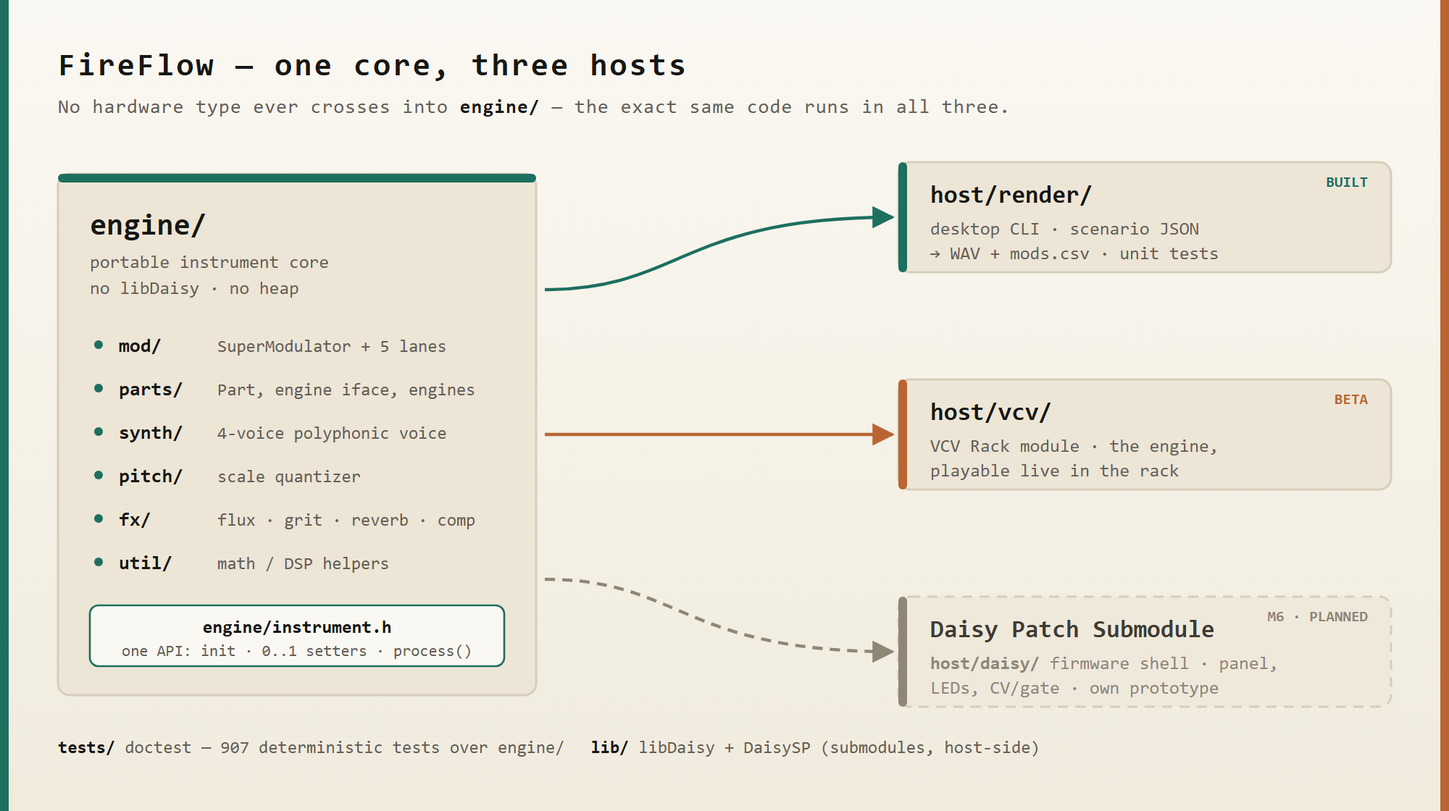
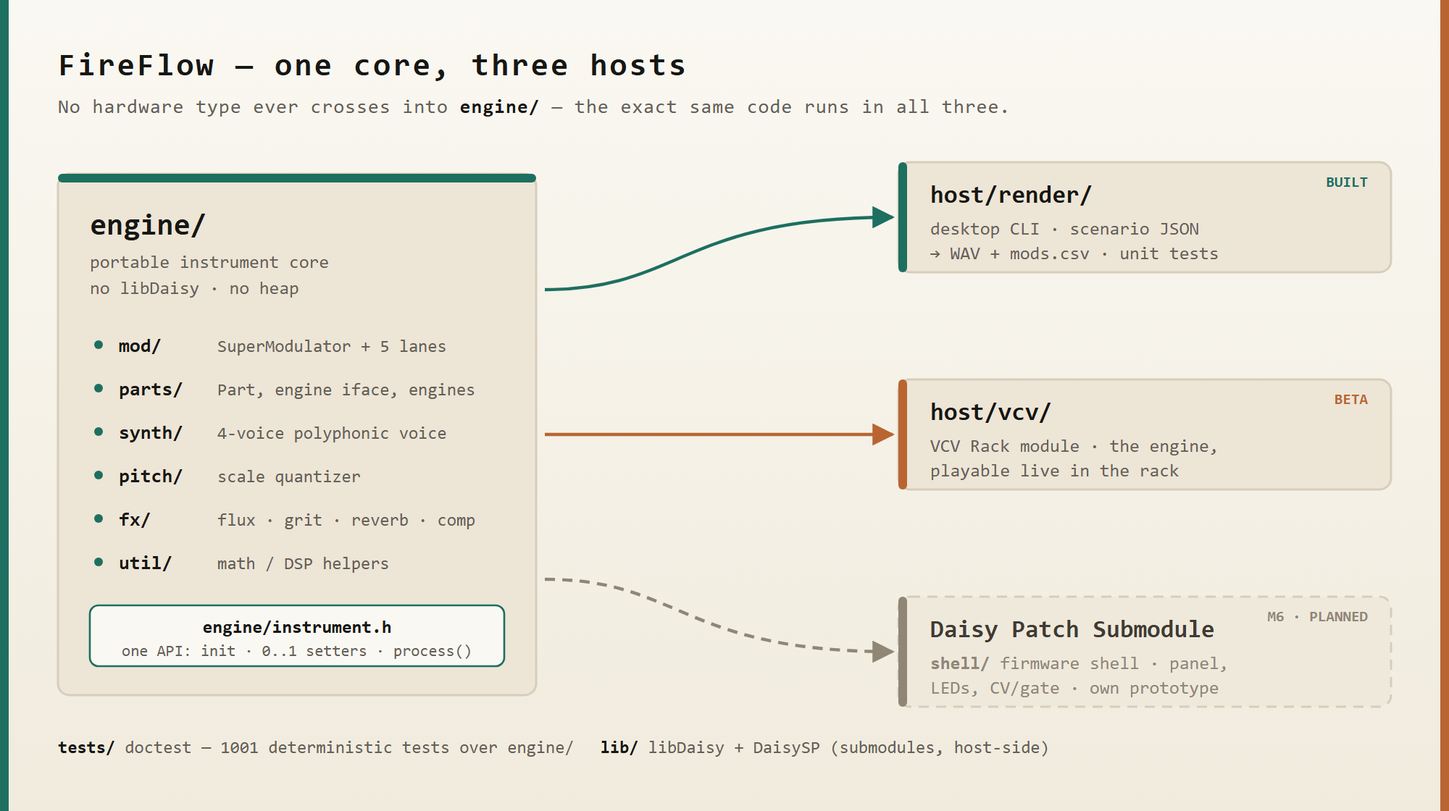
docs: the status files catch up with four shipped rounds
The roadmap was last written on 15 Aug against the SMOOTH merge and had
fallen behind by two panel rounds, one engine round, and every release
tag since 2.18.0. Nothing here changes code.

Corrected, each checked against git rather than against the previous
text: the captions round landed 2026-08-03 and shipped in 2.18.0, the
regrouping round in 2.21.1, and PACE, the FLOW melody engine, the
flow/Glow removal, melody-reachable and SMOOTH all in 2.21.2 -- five
rows and two paragraphs still said "not yet merged" or "not yet
released".

Added: the melody-reachable round, which had no entry at all (one guard,
one of six lane states, FORM_B moving 9 of 13 STEP terrains against 1 of
13), the SMOOTH and 60 HP plate rows, and the two panel rounds that
followed the regrouping -- redistribution and plate design 2a, with the
three Rack findings that only rendering the module could produce.

Opened as its own entry: the pitch RANGE law. The melody-reachable plan
excluded spec 2.2 on purpose and nothing recorded that anywhere, so the
one open thread in the engine was invisible. It carries the measured
defect (ambitus peaks at RANGE 0.5 and falls, 54.2 % of samples clamped
at 1.00) and the caveat that its numbers came through engine/flow/,
deleted a day later.

The envelope spec's "82 params on 80 positions" is now marked as the
2026-08-08 count: gen_hw_panel.py prints params=69 inputs=12 outputs=6
lights=4 today, and the printed line is what to quote.
[…]

Changed region(s): [[0.155, 0.9062, 0.713, 0.9375], [0.651, 0.8125, 0.868, 0.8438]]

diff --git a/docs/roadmap.md b/docs/roadmap.md
@@ -30,7 +30,27 @@ is actually built today, and what is still design-only.
   (`docs/superpowers/specs/2026-07-25-spotykach-form-song-split-design.md`).
   (These specs keep their original filenames, written while the project was
   still a Spotykach fork.)
-- **Last updated:** 2026-08-15 (**SMOOTH becomes interval-relative**: the
+- **Last updated:** 2026-08-15 (**the 60 HP plate is drawn**: the
+  redistribution round's layout reached the generator in 2.21.2, and the plate
+  was then redrawn twice — first an organic light plate with wells, then design
+  round 2a, "Technical Blueprint": a dark anodised plate in three tinted zones,
+  an airflow/ember silhouette printed underneath, and every function group
+  inside a framed field with a numbered legend. **No control moved in round
+  2a** — it is colour, texture, frames and lettering, and the geometry guards
+  are untouched. Three fixes followed the same day: group frames hug their own
+  ink with equal air above and below and exactly 3 mm between rows, every
+  caption keeps one distance to its own body (3.6 mm, read off the small pots —
+  51 of the 69 params) instead of one per size class, and the MOTION/VOICE/
+  TIMING band runs on three knob lines instead of the five it had drifted onto.
+  Three findings are about **Rack** rather than about the drawing, and each was
+  found by rendering the module rather than by reading the file: NanoSVG drops
+  `<mask>`, so the silhouette fade is baked as a gradient overlay; with
+  `objectBoundingBox` gradients Rack painted one deck's overlay opaque, so every
+  gradient is in millimetres now; and Rack's 8.03 mm `PJ301M` body buries
+  lettering that a real 6.2 mm jack clears, which is now its own guard. Released
+  as **2.21.2** and **2.21.3**; the plate is a design study and still says
+  `DRAFT` — see "M6 — Hardware prototype" under "Planned"); before
+  that, 2026-08-15 (**SMOOTH becomes interval-relative**: the
   slew law is now `τ = smooth · TOP · interval` instead of absolute
   wall-clock seconds, `kSmoothTopTexture = 0.5` was chosen by ear, the
   factory SMOOTH defaults are converted to preserve the shipped sound, and
@@ -40,7 +60,7 @@ is actually built today, and what is still design-only.
   Spec `docs/superpowers/specs/2026-08-13-shape-smooth-rework-design.md`,
   plan `docs/superpowers/plans/2026-08-14-smooth-interval-relative.md`,
   branch `2026-08-14-smooth-interval-relative`, **merged to `main`
-  2026-08-15** (`4493d67`), not yet released — see "SMOOTH becomes
+  2026-08-15** (`4493d67`) and **released in 2.21.2** — see "SMOOTH becomes
   interval-relative" under "Done"); before
   that, 2026-08-14 (**the flow layer and Glow are struck**:
   `engine/flow/`, the `Glow` VCV module, its faceplate, five render
@@ -62,6 +82,15 @@ is actually built today, and what is still design-only.
   removal took are still gone.** Spec
   `docs/superpowers/specs/2026-08-14-flow-glow-removal-design.md`, plan
   `docs/superpowers/plans/2026-08-14-flow-glow-removal.md`); before that,
+  2026-08-14 (**the melody becomes reachable**: a note deck's melodic lane
+  emits its composed phrase in STEP as it already did in FLOW, so FORM and
+  SONG are audible at every SHAPE position instead of only above 0.75. One
+  guard moves, from `_flow_melody_on()` to `_melodic && _flow_melody`, and
+  exactly one of the six reachable lane states changes with it; in rendered
+  audio FORM_B moves 9 of 13 STEP terrains against 1 of 13 before.
+  **§2.2 of its spec, the pitch RANGE law, was deliberately not built** and is
+  still unspecified — see "The melody becomes reachable" under "Done" and the
+  open thread under "Planned"); before that,
   2026-08-13 (SHAPE/SMOOTH rework: its spec is written —
   `docs/superpowers/specs/2026-08-13-shape-smooth-rework-design.md` — after two
   merged-axis drafts were rejected by review; the third repairs the four measured
@@ -390,9 +419,12 @@ is actually built today, and what is still design-only.
 | **BBD part engine** | `ENGINE_BBD` (ENG state 4) is a fifth, voiceless part engine — no synth voices, just a stereo `BbdEcho` pair fed by audio-in and/or the neighbour (via a new audio-rate cross-deck bus), driven through the five modulation lanes (SOURCE→DRIVE, PITCH→clock, SIZE→division, MOTION→FEEDBACK, LEVEL→dry/wet MIX). The same work reverts FLUX — the echo effect on every engine, including this one — from its BBD model back to a plain tape echo, so the "FLUX → BBD" row above no longer describes FLUX's current mechanism; the bucket-brigade device that survives is this engine, on the BBD deck only | ✅ **done** (engine + VCV; spec `docs/superpowers/specs/2026-07-31-bbd-part-engine-design.md`; released in 2.17.0; measured on real hardware at the engine's own worst case, `inst_bbd_engine_worst` 94.16 avg / 98.39–98.56 max % of the 960 000-cycle block at `-O2` — fits, but no `-O3` measurement of this row exists; see below — **superseded 2026-08-04: the `-O3` measurement now exists.** On the `regress` profile, layout `axi`, `-O3`, this row reads **92.91 % `pct_max`** on the constructed `19f7560` baseline and **96.91 %** on `main` (+4.00 against a 0.19 repeat band). Evidence: [signal-path regression](bench/2026-08-04-2101349-signal-path-regression.md)) |
 | **BBD PITCH / tape TIME surface** | `STAGES_A/B` leaves the FX box and takes over the shared VOICE `ATK` slot as the BBD deck's own pitch control, visible only while that deck is BBD (`ATTACK` is hidden there and stays reachable as a `Freeze Attack` context-menu slider); the vacated FX slot gets a new knob driving `FXT_FLUX_TIME` geometrically from ×0.25 through ×1 to ×4, distinct from RATE's tempo-synced division | ✅ **done** (VCV; spec `docs/superpowers/specs/2026-08-02-vcv-bbd-pitch-flux-time-surface-design.md`; released in 2.17.1; the two new captions, `PITCH` and `TIME`, were renamed `BEND` and `MULT` by "VCV engine-aware captions" below) |
 | **BBD dynamic-stage declick** | `BbdLine` keeps one continuous full-ring write history behind every stage-count change and crossfades the old and new read taps over a fixed 16-tick smoothstep, removing the index-reset impulse the previous immediate resize produced when COLOR/MOTION modulates a line's stage count | ✅ **done** (engine; spec `docs/superpowers/specs/2026-08-03-bbd-dynamic-stages-declick-design.md`; released in 2.17.1; fixed-stage output stays bit-identical, COLOR = 0 stays bit-identical left/right) |
-| **VCV engine-aware captions** | Every state-dependent panel caption now comes from one `DYNAMIC_CAPTIONS` generator table instead of hand-written special cases: BODY gets honest VOICE words (`HIT`/`DAMP`/`CHAR`/`EXCIT`/`BRITE`) and BBD gets its own (`TAIL`/`TILT`/`FEED`/`LOSS`); the FX-box word collisions are resolved by renaming FLUX `RATE`→`DIV`, FLUX `TIME`→`MULT`, per-deck `ROOM`→`SEND`, `MASTER_DRIVE`→`PUSH` and BBD `PITCH`→`BEND` (collision with the orbit's `PITCH` eyebrow); the GRIT mode pad now shows its own state, `SAT`/`CRSH`, instead of the word `GRIT` it collided with; MELODY drives Sampler `SCAN` only, no longer also `set_variation`; the permanently-printed `SCAN`/`LEN` second words are deleted from the static plate | ✅ **done** (VCV host + generator; spec `docs/superpowers/specs/2026-08-03-vcv-engine-aware-captions-design.md`; branch `vcv-engine-aware-captions`, not yet merged to main or released) |
-| **PACE** | One global modulation time-stretch, ×1/32 … ×1 … ×4: a new `Instrument::set_pace()` normalized knob, `pace_mult()` curve (`engine/mod/divisions.h`), a `Transport` pace anchor so the grid re-locks on a change instead of jumping phase, `Flux::set_rhythm_pace`, a `PACE` knob on `Fireflow` beside `TEMPO`, and render-host coverage. Fixes the two controls that looked like a speed knob and were not: TEMPO is inert in the free world, and TIDE never reached the melodic lane | ✅ **done** (engine + VCV host + render host; spec `docs/superpowers/specs/2026-08-12-modulation-pace-design.md`, plan `docs/superpowers/plans/2026-08-12-modulation-pace.md`; branch `2026-08-12-modulation-pace`, not yet merged to `main` or released) |
-| **FLOW melody engine** | The free mode's melodic lane walks an 8-slot phrase instead of running a continuous LFO — DENSITY, FORM and SONG all reach it for the first time, bounded by two rate floors and a slew clamp; SAMPLER and BBD keep the old continuous LFO unchanged | ✅ **done** (engine; spec `docs/superpowers/specs/2026-08-13-flow-melody-engine-design.md`, plan `docs/superpowers/plans/2026-08-13-flow-melody-engine.md`; branch `flow-melody-engine`, not yet merged to `main` or released; **owner's listening checks answered 2026-08-13 — all three renders accepted** — see "FLOW melody engine" under "Done") |
+| **VCV engine-aware captions** | Every state-dependent panel caption now comes from one `DYNAMIC_CAPTIONS` generator table instead of hand-written special cases: BODY gets honest VOICE words (`HIT`/`DAMP`/`CHAR`/`EXCIT`/`BRITE`) and BBD gets its own (`TAIL`/`TILT`/`FEED`/`LOSS`); the FX-box word collisions are resolved by renaming FLUX `RATE`→`DIV`, FLUX `TIME`→`MULT`, per-deck `ROOM`→`SEND`, `MASTER_DRIVE`→`PUSH` and BBD `PITCH`→`BEND` (collision with the orbit's `PITCH` eyebrow); the GRIT mode pad now shows its own state, `SAT`/`CRSH`, instead of the word `GRIT` it collided with; MELODY drives Sampler `SCAN` only, no longer also `set_variation`; the permanently-printed `SCAN`/`LEN` second words are deleted from the static plate | ✅ **done** (VCV host + generator; spec `docs/superpowers/specs/2026-08-03-vcv-engine-aware-captions-design.md`; landed on `main` 2026-08-03 (`0c03e3c`), released in 2.18.0) |
+| **PACE** | One global modulation time-stretch, ×1/32 … ×1 … ×4: a new `Instrument::set_pace()` normalized knob, `pace_mult()` curve (`engine/mod/divisions.h`), a `Transport` pace anchor so the grid re-locks on a change instead of jumping phase, `Flux::set_rhythm_pace`, a `PACE` knob on `Fireflow` beside `TEMPO`, and render-host coverage. Fixes the two controls that looked like a speed knob and were not: TEMPO is inert in the free world, and TIDE never reached the melodic lane | ✅ **done** (engine + VCV host + render host; spec `docs/superpowers/specs/2026-08-12-modulation-pace-design.md`, plan `docs/superpowers/plans/2026-08-12-modulation-pace.md`; branch `2026-08-12-modulation-pace`, fast-forwarded onto `main` 2026-08-13 (tip `338e6eb`, so there is no merge commit to cite), released in 2.21.2) |
+| **FLOW melody engine** | The free mode's melodic lane walks an 8-slot phrase instead of running a continuous LFO — DENSITY, FORM and SONG all reach it for the first time, bounded by two rate floors and a slew clamp; SAMPLER and BBD keep the old continuous LFO unchanged | ✅ **done** (engine; spec `docs/superpowers/specs/2026-08-13-flow-melody-engine-design.md`, plan `docs/superpowers/plans/2026-08-13-flow-melody-engine.md`; branch `flow-melody-engine`, merged to `main` 2026-08-13 (`ad3bb93`), released in 2.21.2; **owner's listening checks answered 2026-08-13 — all three renders accepted** — see "FLOW melody engine" under "Done") |
+| **Melody reachable in STEP** | A note deck's melodic lane emits its composed phrase in STEP exactly as it already did in FLOW: one guard in `ModLane::_compute_raw()` changes from `_flow_melody_on()` to `_melodic && _flow_melody` (an engine-class flag, so SAMPLER and BBD are excluded in both modes). FORM and SONG become audible at every SHAPE position instead of only above 0.75 — measured, FORM_B moves rendered audio on 9 of 13 STEP terrains against 1 of 13 under the old guard. Exactly one of the six reachable lane states changes | ✅ **done** (engine; spec `docs/superpowers/specs/2026-08-14-melody-reachable-design.md` §2.1, plan `docs/superpowers/plans/2026-08-14-melody-reachable.md`; landed on `main` 2026-08-14 (`07d5b9d`), released in 2.21.2. **§2.2, the pitch RANGE law, is not built** — see "The melody becomes reachable" under "Done") |
+| **SMOOTH becomes interval-relative** | The slew law is `τ = smooth · TOP · interval` instead of absolute wall-clock seconds, so SMOOTH means the same thing at every rate; `kSmoothTopTexture = 0.5` chosen by ear, factory defaults converted to preserve the shipped sound, five gates behind it. SHAPE is deliberately not delivered and goes to the Marbles round | ✅ **done** (engine + VCV defaults; spec `docs/superpowers/specs/2026-08-13-shape-smooth-rework-design.md`, plan `docs/superpowers/plans/2026-08-14-smooth-interval-relative.md`; merged to `main` 2026-08-15 (`4493d67`), released in 2.21.2) |
+| **60 HP plate** | The hardware panel gets its layout and then its drawing: the redistribution round's placement reaches `gen_hw_panel.py` (2.21.2), and design round 2a, "Technical Blueprint", replaces the organic light plate with a dark anodised one in three tinted zones, a printed airflow/ember silhouette and framed fields with numbered legends — no control moved for it. Three fixes follow: frames hug their own ink with 3 mm between rows, one caption distance (3.6 mm) for every control instead of one per size class, and three knob lines through the MOTION/VOICE/TIMING band instead of five | ✅ **done** as a design study (VCV `FireflowHW` panel + generator; spec `docs/superpowers/specs/2026-08-10-hw-panel-redistribution-design.md`; released in 2.21.2 and 2.21.3; still labelled `DRAFT`, and no hardware is ordered — see "M6 — Hardware prototype" under "Planned") |
 | **M5k** | ZAP — monophonic percussion part engine | ⬜ **planned** (spec ready; not implemented) |
 | **M5l** | PULL — chord gravity between the two decks | ⬜ **planned** (spec ready; not implemented) |
 | **M6** | Hardware prototype — Daisy Patch Submodule bring-up: panel, controls, LEDs, CV/gate I/O, preset persistence | ⬜ planned (**panel design done — regrouping round built on branch `hw-panel-regroup` 2026-08-10; bring-up not started**; the existing shell spec is superseded — see below) |
@@ -2363,6 +2395,58 @@ carries that transient for the rest of the divergence window. Neither
 hash-gated render (`ctrl_identity`, `wave_formant_sweep`) is affected — both
 stay on one engine for their whole run and never call `set_engine`.
 
+### The melody becomes reachable ✅
+
+A note deck in STEP emitted a waveform where it should have emitted its
+composed phrase. FORM and SONG therefore only became audible above SHAPE 0.75,
+where the S&H zone starts: below it FORM differed on **0 of 4** Principles,
+and it now differs on **3 of 4** at every SHAPE and on every seed tried.
+
+**One guard.** `ModLane::_compute_raw()` gated the phrase path on
+`_flow_melody_on()`, which is mode-dependent; it now gates on
+`_melodic && _flow_melody`. `_flow_melody` is an engine-class flag pushed from
+the engine id in **both** modes (`part.cpp`: `!= ENGINE_SAMPLER &&
+!= ENGINE_BBD`), so it really reads "this deck has a note engine" and excludes
+SAMPLER and BBD everywhere. **Exactly one of the six reachable lane states
+changes**, measured: melodic + STEP + note engine goes from p2p 2.000 over 5
+values to the phrase (0.246 over 7 at seed 12345); the SAMPLER/BBD row beside
+it stays at 2.000 over 5.
+
+**In rendered audio**, over masters 1..59 through `test_param_impact`'s rig:
+FORM_B moves audio on **9 of 13** STEP terrains against **1 of 13** under the
+old guard, FORM_A on **7 of 13** against **0 of 13**. Several of those sit far
+below SHAPE 0.75 — master 11 at SHAPE_B 0.325, 19 at 0.483, 31 at 0.468 — and
+read exactly 0.0 before. FLOW is unchanged under both guards, as expected: it
+was already on the phrase path.
+
+**One misattribution was caught and corrected in the branch** (`0009a9a`): the
+guard does **not** protect `kBbdFlowRangeMax`. That cap is FLOW-only
+(`flow.cpp`, `== ENGINE_BBD && !_mode_now`), and STEP is the one mode where the
+two candidate guards differ, so the cap never runs where the choice matters —
+measured over 400 masters, 0 of 28 BBD decks drawn in FLOW carry RANGE above
+the cap and 35 of 35 drawn in STEP do, up to 0.7266 against a cap of 0.0083.
+What carries the guard alone is the owner's ruling of 2026-08-07: a BBD deck's
+PITCH lane is the delay clock, not a note.
+
+**The spec's §2.2 — the pitch RANGE law — was deliberately not built.** The
+plan says so in its own header: §2.2 is unspecified in the spec and needs a
+design pass first. It is the one open thread this round leaves behind.
+
+The plan also deviates from the spec on purpose and says why: the spec asked
+for `_flow_melody` to be **renamed** `_note_engine` in the same commit, which
+enumerates to ~90 sites across `engine/`, `host/` and 14 test files and would
+have buried a one-line behaviour change in its own diff. A named predicate at
+the point of use went in instead.
+
+Spec `docs/superpowers/specs/2026-08-14-melody-reachable-design.md`, plan
+`docs/superpowers/plans/2026-08-14-melody-reachable.md`; landed on `main`
+2026-08-14 (`07d5b9d`), released in 2.21.2. Two gates were re-baselined because
+the change genuinely reaches them — `tests/test_engine_map.cpp` §1 (the two STEP
+rows are no longer sample-identical; the identity now holds between the note
+deck's STEP and FLOW streams instead, max deviation 0.0 over ten seeds at 8
+steps) and `tests/test_param_impact.cpp` (FORM_A leaves the mode-exclusive
+list).
+
 ### SMOOTH becomes interval-relative ✅
 
 SMOOTH's law used to be `τ = 0.00002 · 25000^smooth` — absolute wall-clock
@@ -2438,7 +2522,7 @@ the old one marked superseded.
 Spec: `docs/superpowers/specs/2026-08-13-shape-smooth-rework-design.md`, plan
 `docs/superpowers/plans/2026-08-14-smooth-interval-relative.md`. Built on
 branch `2026-08-14-smooth-interval-relative`, **merged to `main` on 2026-08-15
-(`4493d67`, twelve commits) and not yet released.** One render hash,
+(`4493d67`, twelve commits) and released in 2.21.2.** One render hash,
 `wave_formant_sweep`, moved under the new law
 (`set_smooth` 0.65); Bastian heard both renders and accepted the new one on
 2026-08-15, and it was re-cut then. `ctrl_identity` is untouched
@@ -2461,8 +2545,9 @@ ALT→NEU change sat 4.1 dB below, for scale).
 
 The SHAPE/SMOOTH rework's SMOOTH half has shipped — see "SMOOTH becomes
 interval-relative" under "Done". Its SHAPE half was handed to the round below
-rather than delivered, per spec §5, so **the Marbles round is now the only
-entry left under "Planned" before M5k.**
+rather than delivered, per spec §5, so **the Marbles round is the only designed
+round left before M5k**, followed by one loose thread that has no round of its
+own yet (the pitch RANGE law, below it).
 
 ### Marbles round — VARY as the character axis ⬜ (unscheduled)
 
@@ -2503,6 +2588,36 @@ argument for taking the SHAPE/SMOOTH rework first.
 
 Needs a spec.
 
+### Open thread — the pitch RANGE law ⬜ (unscheduled, no round yet)
+
+Left behind by the melody-reachable round, whose plan excluded it on purpose:
+spec §2.2 is stated but not designed, and it needs a design pass before anyone
+builds it.
+
+`apply_range` (`engine/mod/range.h`) is an **amplitude** law — unipolar below
+r = 0.5, scaled by `2r`. On the quantized pitch axis that produces two measured
+defects: too little ambitus at the bottom of the knob, and clipping over the
+whole top half. Measured through the real path at STEP 8, SHAPE 1.0, TUNE 0.5,
+mean of 6 seeds, the ambitus **peaks at RANGE ≈ 0.5 (7.23 semitones) and falls
+for the entire upper half** — 29.2 % of samples clamped at RANGE 0.75 and
+54.2 % at 1.00, because `pitch_pre_quant`'s `clampf(…, 0, 1)` starts discarding
+samples at r ≈ 0.55. The clip's position moves with TUNE, since
+`part.cpp` adds `(_tune − 0.5)` before clamping. An earlier draft blamed a
+unipolar/bipolar seam at r = 0.5; **that seam does not exist** — `apply_range`
+is provably continuous there, and the mechanism was mislabelled while the
+residue was real.
+
+Two things constrain whoever picks it up:
+
+- **The gate must be the engine class, not the slot.** `kBbdFlowRangeMax`
+  derives its `2` from `apply_range`'s unipolar behaviour, so a degree floor
+  applied to a BBD deck would void that constant and the owner's 2026-08-07
+  ruling that a BBD's PITCH lane is the delay clock, not a note.
+- **The measurements above came through a rig that no longer exists.** §1.3's
+  drone RANGE band and its terrain statistics were read off `engine/flow/`,
+  deleted one day later on 2026-08-14. The numbers stand as measured; anything
+  new has to be re-measured through a different setup.
+
 ### M5k — ZAP ⬜
 
 Monophonic two-oscillator FM/AM percussion part engine whose PITCH lane selects
@@ -2524,7 +2639,8 @@ Spec: `docs/superpowers/specs/2026-07-19-pull-chord-gravity-design.md`
 An instrument of its own, built on a **Daisy Patch Submodule**: a thin shell
 hosting `engine/`, plus the physical surface around it — controls, LEDs, CV +
 gate + V/Oct + clock I/O, and preset persistence. **First milestone that runs on
-hardware.** Nothing of it is implemented.
+hardware.** No firmware of it is implemented; what exists is the panel, and only
+as a Rack design study (the `FireflowHW` module, still labelled `DRAFT`).
 
 **2026-08-07 — the submodule is measurable without a debug probe.** The bench
 has a second transport (`--transport usb`): `dfu-util` loads it through the
@@ -2558,7 +2674,11 @@ So M6 now decomposes into two pieces, in order:
    round is **cancelled**: the envelope spec
    (`docs/superpowers/specs/2026-08-08-fireflow-hardware-envelope-design.md`)
    fixes the hardware at **60 HP with the full control set** (82 runtime
-   params on 80 physical positions, BEND sharing ATTACK's knob). What remains
+   params on 80 physical positions, BEND sharing ATTACK's knob, as counted on
+   2026-08-08). **The built panel now carries fewer**, because the rounds below
+   merged controls rather than only moving them — `gen_hw_panel.py` prints
+   `params=69 inputs=12 outputs=6 lights=4 panel=60HP` today, and that printed
+   line is the number to quote, not the envelope's. What remains
    is a **regrouping** pass — bounded, tested in Rack via the hardware-mode
    panel generator (`host/vcv/res/gen_hw_panel.py`), max. 3 rounds, static
    labels enforced from round 1. The parked hardware-placement questions from
@@ -2567,17 +2687,57 @@ So M6 now decomposes into two pieces, in order:
    as cuts.
 2. **Bring-up** — the shell itself, against the panel decided in step 1.
 
-**2026-08-10 — round 1 done, and the only one it took.** The regrouping spec
+**2026-08-10 — the regrouping round.** The regrouping spec
 (`docs/superpowers/specs/2026-08-10-hw-panel-regroup-design.md`, plan
-`docs/superpowers/plans/2026-08-10-hw-panel-regroup.md`) is built on branch
-`hw-panel-regroup`, not yet merged to main or released: hardware size
+`docs/superpowers/plans/2026-08-10-hw-panel-regroup.md`) landed on `main`
+2026-08-10 (`4981c96`) and shipped in **2.21.1**: hardware size
 classes decoupled from the VCV widget kind (18 big / 46 small), the seven
 engine-grounded groups from §2 replace the old orbit cut, eight CV inputs
 land under the four big knobs they drive, MOD/SHIFT are reserved pads, the
 LED field is fixed at 20, and the SD cutout has its position.
 `hw_panel_guard` proves the generated panel and header against the spec's
-coordinates and keep-outs. Step 1 is closed; step 2 (bring-up) still has no
-spec and is next.
+coordinates and keep-outs.
+
+**Two further panel rounds followed it, and the round cap did not bite.** The
+envelope spec's "max. 3 rounds" counts freeze breaks *after* the hardware is
+ordered; nothing is ordered, so rearranging still costs nothing (redistribution
+spec, preamble to §1).
+
+- **Redistribution** — spec and drawing 2026-08-10 (`90572ed`, nothing
+  implemented at the time), generator in **2.21.2**. The regrouping round had
+  found the groups but left them where the screen draft put them: the plate was
+  **28 % occupied**, with two 19.5 mm holes beside the centre column and a
+  bottom fifth at 15 %, because one deck used 96 mm of the 127 mm it owns. This
+  round redistributes — a group is a block of two rows with a constant internal
+  pitch, so slack collects between groups as a capped gutter instead of tearing
+  groups apart; ENGINE becomes a five-zone detented pot at the head of VOICE and
+  retires ten LEDs; RATE and VARY join STPS and SONG in the deck's time group;
+  knob caps grow a millimetre, which is what finally clears the void gate. Its
+  2026-08-15 addendum places PACE beside MORPH, moves CHOKE into the status
+  strip and puts SCALE and DRIFT on the CLOCK grid. Spec
+  `docs/superpowers/specs/2026-08-10-hw-panel-redistribution-design.md`.
+- **Plate design round 2a, "Technical Blueprint"** — **2.21.3**, 2026-08-15.
+  Colour, texture, frames and lettering only; **no control moved and the
+  geometry guards are untouched**. A dark anodised plate in three tinted zones,
+  an airflow/ember silhouette printed underneath, and one fixed raster of
+  drawing frames with numbered legends, cut from a list rather than hand-placed
+  and sized against the *real* bodies (12 mm and 8.8 mm pots, 6.2 mm jacks).
+  Three same-day fixes finish it: frames hug their own ink with equal air above
+  and below and 3 mm between rows, one caption distance for every control
+  (3.6 mm, read off the small pots — 51 of the 69 params — so the common case
+  does not move), and the MOTION/VOICE/TIMING band on three knob lines instead
+  of the five it had drifted onto under four guards that could not disagree with
+  each other. **Three of the round's findings are about Rack, not about the
+  drawing**, and each came from rendering the module rather than reading the
+  file: NanoSVG drops `<mask>`, so the silhouette fade is baked as a gradient
+  overlay; `objectBoundingBox` gradients made Rack paint deck A's overlay
+  opaque while its mirror rendered fine, so every gradient is in millimetres
+  now; and Rack's 8.03 mm `PJ301M` body buries lettering that a real 6.2 mm
+  jack clears — now a guard of its own, beside the plate body and the layout
+  clearance circle. Four new guards in total, each shown red once.
+
+Step 1 is closed as far as the drawing goes; **step 2 (bring-up) still has no
+spec and is next**, and no hardware is ordered.
 
 **2026-08-14 — preset persistence now starts from nothing.** M6's scope names
 it, and until this date the repo had two pieces of prior art for it: the

diff --git a/README.md b/README.md
@@ -93,7 +93,7 @@ module, and (later) on the hardware prototype.
 
 <p align="center">
   <img src="docs/img/architecture.png" width="900"
-       alt="Architecture diagram: one portable engine/ core (mod, parts, synth, pitch, fx, util behind a single engine/instrument.h API) feeds three hosts — host/render (desktop CLI → WAV + mods.csv, built), host/vcv (VCV Rack module, beta) and the Daisy Patch Submodule prototype (host/daisy firmware shell, M6, planned). No hardware type crosses into engine/; tests/ runs 907 deterministic Doctest cases.">
+       alt="Architecture diagram: one portable engine/ core (mod, parts, synth, pitch, fx, util behind a single engine/instrument.h API) feeds three hosts — host/render (desktop CLI → WAV + mods.csv, built), host/vcv (VCV Rack module, beta) and the Daisy Patch Submodule prototype (shell/ firmware shell, M6, planned). No hardware type crosses into engine/; tests/ runs 1001 deterministic Doctest cases.">
 </p>
 
 `Instrument` (`engine/instrument.h`) is the complete public API: `init(sample_rate)`,
@@ -119,7 +119,7 @@ Run the unit tests:
 ctest --test-dir build --output-on-failure
 ```
 
-Configure with `-DCMAKE_BUILD_TYPE=Release`. Two of the four tests (`spky_tests`
+Configure with `-DCMAKE_BUILD_TYPE=Release`. Two of the six tests (`spky_tests`
 and `ctrl_identity`) compare rendered audio against stored SHA-256 references,
 and those were generated from an optimised build — a Debug configuration renders
 slightly different floats and fails them with `SYNTH reference moved`.
@@ -158,9 +158,10 @@ carries recordings from most milestones, next to the story of how they came
 about.
 
 **[Download the latest release](https://github.com/mcbronkowitch/fireflow/releases/latest)**
-— `.vcvplugin` builds for Windows, Apple Silicon and Linux, currently **2.20.0**
+— `.vcvplugin` builds for Windows, Apple Silicon and Linux, currently **2.21.3**
 (both modules: Synth, Sampler, WAVE, BODY and BBD, the independent FORM/SONG
-phrase arranger, and the STEP mod grid lock). Unpack into Rack's
+phrase arranger, the STEP mod grid lock, the PACE modulation time-stretch, and
+the redrawn 60 HP hardware plate). Unpack into Rack's
 user plugin directory and restart Rack.
 
 Building it yourself needs its own toolchain (a native MinGW/GCC compiler, not
@@ -183,14 +184,16 @@ the desktop clang path); the build, install and I/O details live in
 | **M4.10** | Chord layer — COLOR knob, diatonic stacks, voice-leading, live FLOW surface | **done** (engine + hosts; hardware placement deferred) |
 | **M5** | Sampler -- the texture deck: granular cloud, live recording + overdub, WAV load/save, Morphagene-style DENS/SCAN/NEW/LEN/ORG controls, clocked slice-groove, FEEL accents, and FLOW cloud dispersion | **done** (engine + hosts; released through 2.11.0) |
 | **M5h** | Per-deck **SEND** mix: independent dry/send mix per deck into one shared Oliverb reverb | **done** (engine + VCV panel; released in 2.11.0) |
-| **CPU** | Three measured rounds on real hardware: `instrument_worst`'s worst block went from ~156 % of the audio-block budget to 94 %, and back up to 102 % when M5j's tape tap landed (measured at 5.4 % of the block). FLUX's bucket-brigade redesign (below) is done; a fresh hardware measurement of the redesigned block (`instrument_worst_bbd`, its row added to the `system` profile by `bench/workloads_system.cpp`, alongside an isolated `bbd` bench family in `bench/workloads_bbd.cpp`) is built but not yet run — outstanding, needs a Daisy Seed + ST-Link. Method and every number in [`bench/`](bench/README.md) and [`docs/bench/`](docs/bench/) | **done** (ongoing as a tool) |
+| **CPU** | Three measured rounds on real hardware: `instrument_worst`'s worst block went from ~156 % of the audio-block budget to 94 %, and back up to 102 % when M5j's tape tap landed (measured at 5.4 % of the block). Since then an optimization ladder (DTCM placement, an ITCM audio hotset, `-O3`) brought the selected gate `instrument_worst_bbd_dtcm` to **96.43 %** of the block on a Daisy Seed, and the whole signal path has been re-measured against it. **The engine's own worst case still does not fit**: on a Patch Submodule `instrument_worst` reads 102.27 % average / 108.62 % maximum, and whether that is a reachable operating point is an open question. Two more caveats live in `docs/roadmap.md`: every workload is more expensive on the submodule than on the Seed (reserve 2.17 points, so no Seed figure may be quoted for a submodule claim), and the intended ITCM placement does not currently link at the optimization level that ships. A debug probe is no longer needed — the bench also reports over USB-CDC. Method and every number in [`bench/`](bench/README.md) and [`docs/bench/`](docs/bench/) | **done** (ongoing as a tool) |
 | **M5i** | WAVE: four-voice PPG-style wavetable part engine | **done** (engine + renderer + VCV; 65,024-byte mapped-QSPI bank; hardware-gated; released in 2.13.0) |
 | **+ FORM/SONG** | Persistent A/B phrase snapshots: five FORM phrase engines plus AAAB, ABAB, ABBB, BUILD, ROTATE, MIRROR, and OFF SONG arrangements; boundary-safe changes and legacy patch migration | **done** (engine + renderer + VCV; released in 2.13.1) |
 | **M5j** | BODY: one-voice-per-deck resonator part engine, morphing string -> metal -> bell, with a sympathetic excitation bus | **done** (engine + renderer + VCV; hardware-gated: `body_2x4` 295078 cycles, 30.7 % of the block, inside the spec's 29-32 % prediction and cheaper than SYNTH) |
-| **FLUX -> BBD** | FLUX's interpolating tape echo replaced by a bucket-brigade delay model: the clock rate *is* the delay time, so RATE bends stored pitch, and `FXT_FLUX_TIME` is a genuine chorus/vibrato modulation lane (STAGES has since moved off FLUX onto the BBD deck's own pitch lane, captioned **BEND** on the panel) | **done** (engine + renderer + VCV; RATE/STAGES/`FXT_FLUX_TIME` confirmed by ear, DRIVE diagnosed and fixed but awaiting re-listening; hardware CPU measurement outstanding) |
+| **BBD** | A bucket-brigade delay model, where the clock rate *is* the delay time — so RATE bends stored pitch **only transiently, while it moves**: held steady, a bucket-brigade line's pitch is unity at any clock rate. It first replaced FLUX's tape echo everywhere and now lives on as the fifth part engine only; FLUX itself is a plain tape echo again. `FXT_FLUX_TIME` is a genuine chorus/vibrato modulation lane, and STAGES has moved onto the BBD deck's own pitch lane, captioned **BEND** on the panel | **done** (engine + renderer + VCV; released in 2.17.0/2.17.1, measured on hardware — `inst_bbd_engine_worst` 96.91 % of the block at `-O3`) |
+| **Modulation reachability** | Four rounds that made the modulation surface mean what it says: **PACE**, one global time-stretch from ×1/32 to ×4, because TEMPO was inert in the free world and TIDE never reached the melodic lane; the **FLOW melody engine**, so the free mode's melodic lane walks an 8-slot phrase instead of a continuous LFO; the same phrase in **STEP**, which makes FORM and SONG audible at every SHAPE position instead of only above 0.75; and **SMOOTH as a fraction of the lane interval** rather than absolute seconds, so the knob means the same thing at every rate | **done** (engine + hosts; released in 2.21.2) |
+| **60 HP plate** | The hardware panel, drawn and playable in Rack as the second module: seven engine-grounded groups, eight CV inputs under the knobs they drive, and a dark anodised plate with framed fields and numbered legends | **done** as a design study (released in 2.21.2/2.21.3; still labelled `DRAFT`, no hardware ordered) |
 | **M5k** | ZAP: monophonic percussion part engine | planned (spec ready; not implemented) |
 | **M5l** | PULL: chord gravity between the two decks | planned (spec ready; not implemented) |
-| **M6** | Hardware prototype: bring-up on a Daisy Patch Submodule — panel, controls, LEDs, CV/gate I/O, preset persistence | planned after M5l (**needs a new hardware/panel spec**; the existing shell spec assumes Spotykach's panel) |
+| **M6** | Hardware prototype: bring-up on a Daisy Patch Submodule — panel, controls, LEDs, CV/gate I/O, preset persistence | planned after M5l (panel design **done**, see above; **bring-up needs a new spec** — the existing shell spec assumes Spotykach's panel) |
 
 Per-milestone detail and current status live in [`docs/roadmap.md`](docs/roadmap.md).
 
@@ -198,9 +201,13 @@ Per-milestone detail and current status live in [`docs/roadmap.md`](docs/roadmap
 
 The instrument's own hardware is a **standalone Daisy Patch Submodule**
 prototype — panel, controls, LEDs, CV/gate I/O and preset persistence — planned
-as milestone **M6**, after the two remaining engine milestones. Nothing of it is
-built yet, and its panel still has to be designed: the existing firmware-shell
-spec was written against a different device and no longer describes the target.
+as milestone **M6**, after the two remaining engine milestones. No firmware of it
+is built yet. Its **panel is designed**, though, and you can turn it: the plugin's
+second module, **FireFlow HW Draft**, is that 60 HP surface on the same engine,
+generated from `host/vcv/res/gen_hw_panel.py` and guarded against the spec's own
+coordinates. What still has no spec is the bring-up itself — the existing
+firmware-shell spec was written against a different device and no longer
+describes the target.
 
 CPU headroom on the target MCU is not guesswork, though. Selected workloads are
 measured on real Daisy hardware (a Daisy Seed, which carries the same STM32H750

diff --git a/docs/milestone-history.md b/docs/milestone-history.md
@@ -1,4 +1,7 @@
-# Spotykach — Milestone History
+# FireFlow — Milestone History
+
+*(the project was called spotymod, and before that Spotykach, until 2026-08-04;
+the dated entries below keep the name they were written under)*
 
 This is a chronological, commit-level record of how each milestone actually
 happened: commit ranges and SHAs, plan defects caught during execution,
@@ -16,8 +19,12 @@ reviewer verdicts, and the specific by-ear/play-test iterations, none of
 which roadmap.md carries.
 
 Current state (which milestones are merged/pushed/released today) lives in
-the assistant's `spotykach-milestone-status` memory, not here — that file is
-kept current; this one is not.
+[`docs/roadmap.md`](roadmap.md), not here — that file is kept current; this one
+is not. **This archive stops at 2026-08-04**, the rename; everything after it —
+the hardware panel rounds, PACE, the FLOW melody engine, the flow/Glow removal,
+the SMOOTH rework — is recorded in the roadmap alone. (An earlier version of
+this paragraph pointed at a `spotykach-milestone-status` memory; that memory no
+longer exists.)
 
 ---
 

diff --git a/host/vcv/README.md b/host/vcv/README.md
@@ -12,10 +12,13 @@ host/vcv/
 ├── src/
 │   ├── plugin.{hpp,cpp}  plugin entry + model registration
 │   ├── Fireflow.cpp      Module: param→engine mapping, process(), widget
-│   └── generated_panel.hpp   GENERATED (enums + control table)
+│   ├── generated_panel.hpp      GENERATED (enums + control table)
+│   └── generated_hw_panel.hpp   GENERATED, the HW draft's table
 └── res/
     ├── gen_panel.py      single source of truth for the panel layout
-    └── Fireflow.svg      GENERATED faceplate
+    ├── Fireflow.svg      GENERATED faceplate
+    ├── gen_hw_panel.py   the same, for the 60 HP hardware draft
+    └── FireflowHW.svg    GENERATED faceplate (see "FireFlow HW Draft" below)
 ```
 
 ## Design: one control per function (VCV-native)
